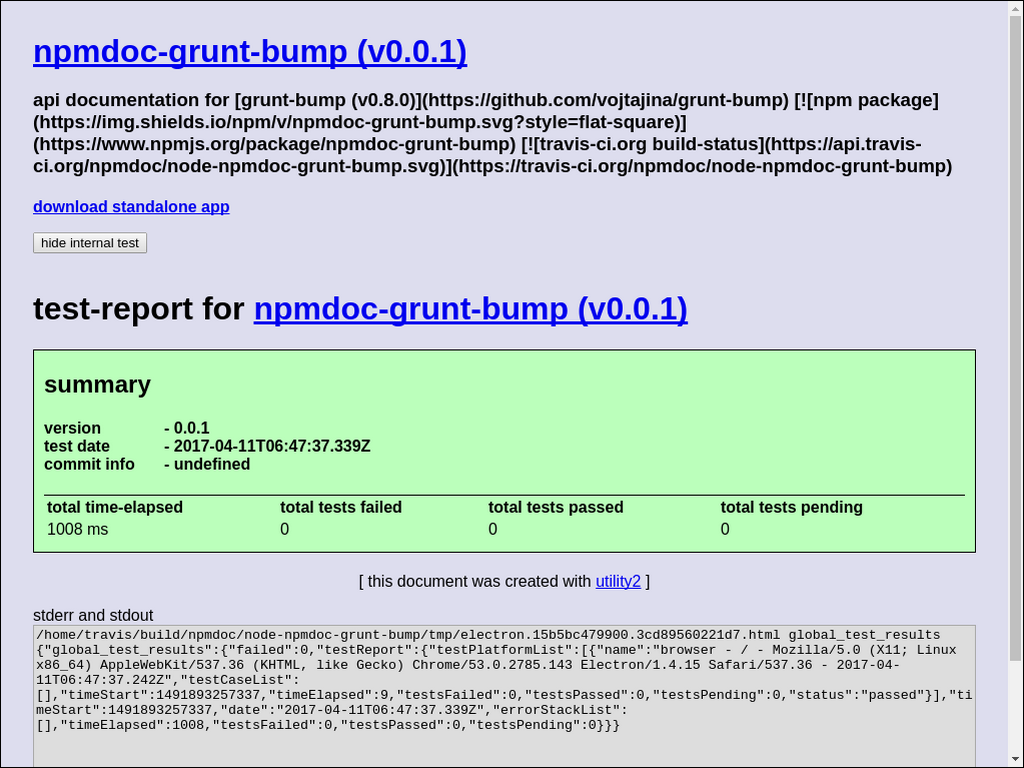
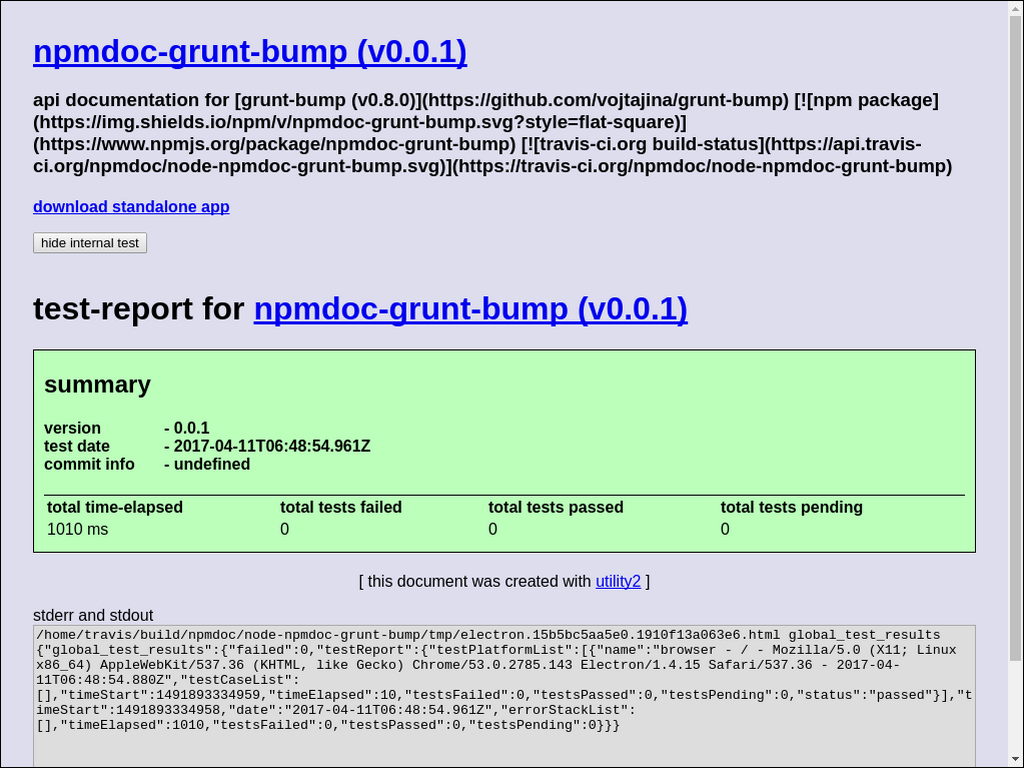
[ci skip] update gh-pages

diff --git a/build..alpha..travis-ci.org/test-report.html b/build..alpha..travis-ci.org/test-report.html
@@ -67,10 +67,10 @@
 <h4>
     <span>version</span>-
         0.0.1<br>
-    <span>test date</span>- 2017-04-11T06:47:54.276Z<br>
+    <span>test date</span>- 2017-04-11T06:49:12.102Z<br>
     <span>commit info</span>-
         
-        8bde3b06920e83b801d9eb1b099002537c75be6d - [npm publishAfterCommitAfterBuild]<br>
+        8bde3b06920e83b801d9eb1b099002537c75be6d - [npm publishAfterCommit]<br>
         
 </h4>
 <table>
@@ -83,7 +83,7 @@
     </tr>
 </thead>
 <tbody><tr>
-    <td>58898 ms</td>
+    <td>66384 ms</td>
     <td class="testPassed">0</td>
     <td>7</td>
     <td>0</td>
@@ -93,9 +93,9 @@
 
 <div class="testReportPlatformDiv">
 <h4>
-    1. buildApidoc - node - linux v6.10.2 - 2017-04-11T06:47:54.170Z<br>
+    1. buildApidoc - node - linux v6.10.2 - 2017-04-11T06:49:11.973Z<br>
     
-    <span>time-elapsed</span>- 17392 ms<br>
+    <span>time-elapsed</span>- 17509 ms<br>
     <span>tests failed</span>- 0<br>
     <span>tests passed</span>- 1<br>
     <span>tests pending</span>- 0<br>
@@ -111,7 +111,7 @@
 
 <tr>
     <td>1</td>
-    <td>15954 ms</td>
+    <td>15956 ms</td>
     <td class="testPassed">passed</td>
     <td>testCase_buildApidoc_default</td>
 </tr>
@@ -125,9 +125,9 @@
 
 <div class="testReportPlatformDiv">
 <h4>
-    2. buildCustomOrg - node - linux v6.10.2 - 2017-04-11T06:47:12.616Z<br>
+    2. buildCustomOrg - node - linux v6.10.2 - 2017-04-11T06:48:23.132Z<br>
     
-    <span>time-elapsed</span>- 58898 ms<br>
+    <span>time-elapsed</span>- 66384 ms<br>
     <span>tests failed</span>- 0<br>
     <span>tests passed</span>- 6<br>
     <span>tests pending</span>- 0<br>
@@ -143,14 +143,14 @@
 
 <tr>
     <td>2</td>
-    <td>17276 ms</td>
+    <td>16924 ms</td>
     <td class="testPassed">passed</td>
     <td>testCase_buildApidoc_default</td>
 </tr>
 
 <tr>
     <td>3</td>
-    <td>6694 ms</td>
+    <td>7150 ms</td>
     <td class="testPassed">passed</td>
     <td>testCase_buildApp_default</td>
 </tr>
@@ -178,7 +178,7 @@
 
 <tr>
     <td>7</td>
-    <td>17191 ms</td>
+    <td>16908 ms</td>
     <td class="testPassed">passed</td>
     <td>testCase_webpage_default</td>
 </tr>

diff --git a/build/test-report.html b/build/test-report.html
@@ -67,10 +67,10 @@
 <h4>
     <span>version</span>-
         0.0.1<br>
-    <span>test date</span>- 2017-04-11T06:47:54.276Z<br>
+    <span>test date</span>- 2017-04-11T06:49:12.102Z<br>
     <span>commit info</span>-
         
-        8bde3b06920e83b801d9eb1b099002537c75be6d - [npm publishAfterCommitAfterBuild]<br>
+        8bde3b06920e83b801d9eb1b099002537c75be6d - [npm publishAfterCommit]<br>
         
 </h4>
 <table>
@@ -83,7 +83,7 @@
     </tr>
 </thead>
 <tbody><tr>
-    <td>58898 ms</td>
+    <td>66384 ms</td>
     <td class="testPassed">0</td>
     <td>7</td>
     <td>0</td>
@@ -93,9 +93,9 @@
 
 <div class="testReportPlatformDiv">
 <h4>
-    1. buildApidoc - node - linux v6.10.2 - 2017-04-11T06:47:54.170Z<br>
+    1. buildApidoc - node - linux v6.10.2 - 2017-04-11T06:49:11.973Z<br>
     
-    <span>time-elapsed</span>- 17392 ms<br>
+    <span>time-elapsed</span>- 17509 ms<br>
     <span>tests failed</span>- 0<br>
     <span>tests passed</span>- 1<br>
     <span>tests pending</span>- 0<br>
@@ -111,7 +111,7 @@
 
 <tr>
     <td>1</td>
-    <td>15954 ms</td>
+    <td>15956 ms</td>
     <td class="testPassed">passed</td>
     <td>testCase_buildApidoc_default</td>
 </tr>
@@ -125,9 +125,9 @@
 
 <div class="testReportPlatformDiv">
 <h4>
-    2. buildCustomOrg - node - linux v6.10.2 - 2017-04-11T06:47:12.616Z<br>
+    2. buildCustomOrg - node - linux v6.10.2 - 2017-04-11T06:48:23.132Z<br>
     
-    <span>time-elapsed</span>- 58898 ms<br>
+    <span>time-elapsed</span>- 66384 ms<br>
     <span>tests failed</span>- 0<br>
     <span>tests passed</span>- 6<br>
     <span>tests pending</span>- 0<br>
@@ -143,14 +143,14 @@
 
 <tr>
     <td>2</td>
-    <td>17276 ms</td>
+    <td>16924 ms</td>
     <td class="testPassed">passed</td>
     <td>testCase_buildApidoc_default</td>
 </tr>
 
 <tr>
     <td>3</td>
-    <td>6694 ms</td>
+    <td>7150 ms</td>
     <td class="testPassed">passed</td>
     <td>testCase_buildApp_default</td>
 </tr>
@@ -178,7 +178,7 @@
 
 <tr>
     <td>7</td>
-    <td>17191 ms</td>
+    <td>16908 ms</td>
     <td class="testPassed">passed</td>
     <td>testCase_webpage_default</td>
 </tr>

diff --git a/build..alpha..travis-ci.org/screenCapture.npmTest.browser.%2F.html b/build..alpha..travis-ci.org/screenCapture.npmTest.browser.%2F.html
@@ -118,7 +118,7 @@ textarea[readonly] {
 <h4>
     <span>version</span>-
         0.0.1<br>
-    <span>test date</span>- 2017-04-11T06:47:37.339Z<br>
+    <span>test date</span>- 2017-04-11T06:48:54.961Z<br>
     <span>commit info</span>-
         
         undefined<br>
@@ -134,7 +134,7 @@ textarea[readonly] {
     </tr>
 </thead>
 <tbody><tr>
-    <td>1008 ms</td>
+    <td>1010 ms</td>
     <td class="testPassed">0</td>
     <td>0</td>
     <td>0</td>

diff --git a/build/screenCapture.npmTest.browser.%2F.html b/build/screenCapture.npmTest.browser.%2F.html
@@ -118,7 +118,7 @@ textarea[readonly] {
 <h4>
     <span>version</span>-
         0.0.1<br>
-    <span>test date</span>- 2017-04-11T06:47:37.339Z<br>
+    <span>test date</span>- 2017-04-11T06:48:54.961Z<br>
     <span>commit info</span>-
         
         undefined<br>
@@ -134,7 +134,7 @@ textarea[readonly] {
     </tr>
 </thead>
 <tbody><tr>
-    <td>1008 ms</td>
+    <td>1010 ms</td>
     <td class="testPassed">0</td>
     <td>0</td>
     <td>0</td>
